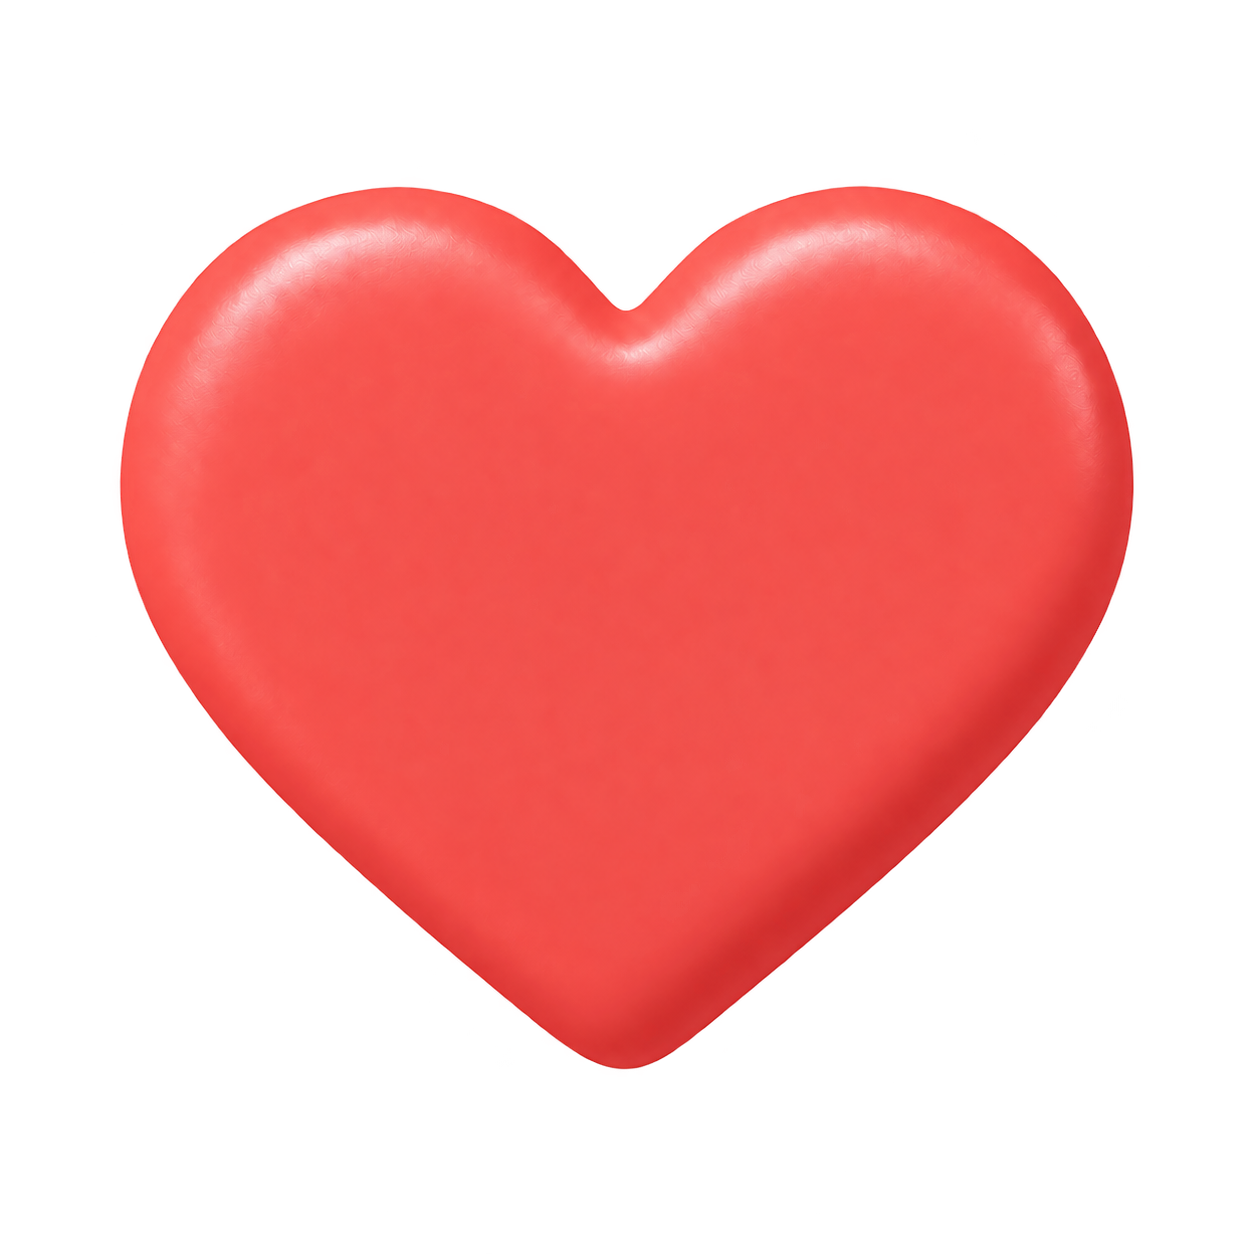
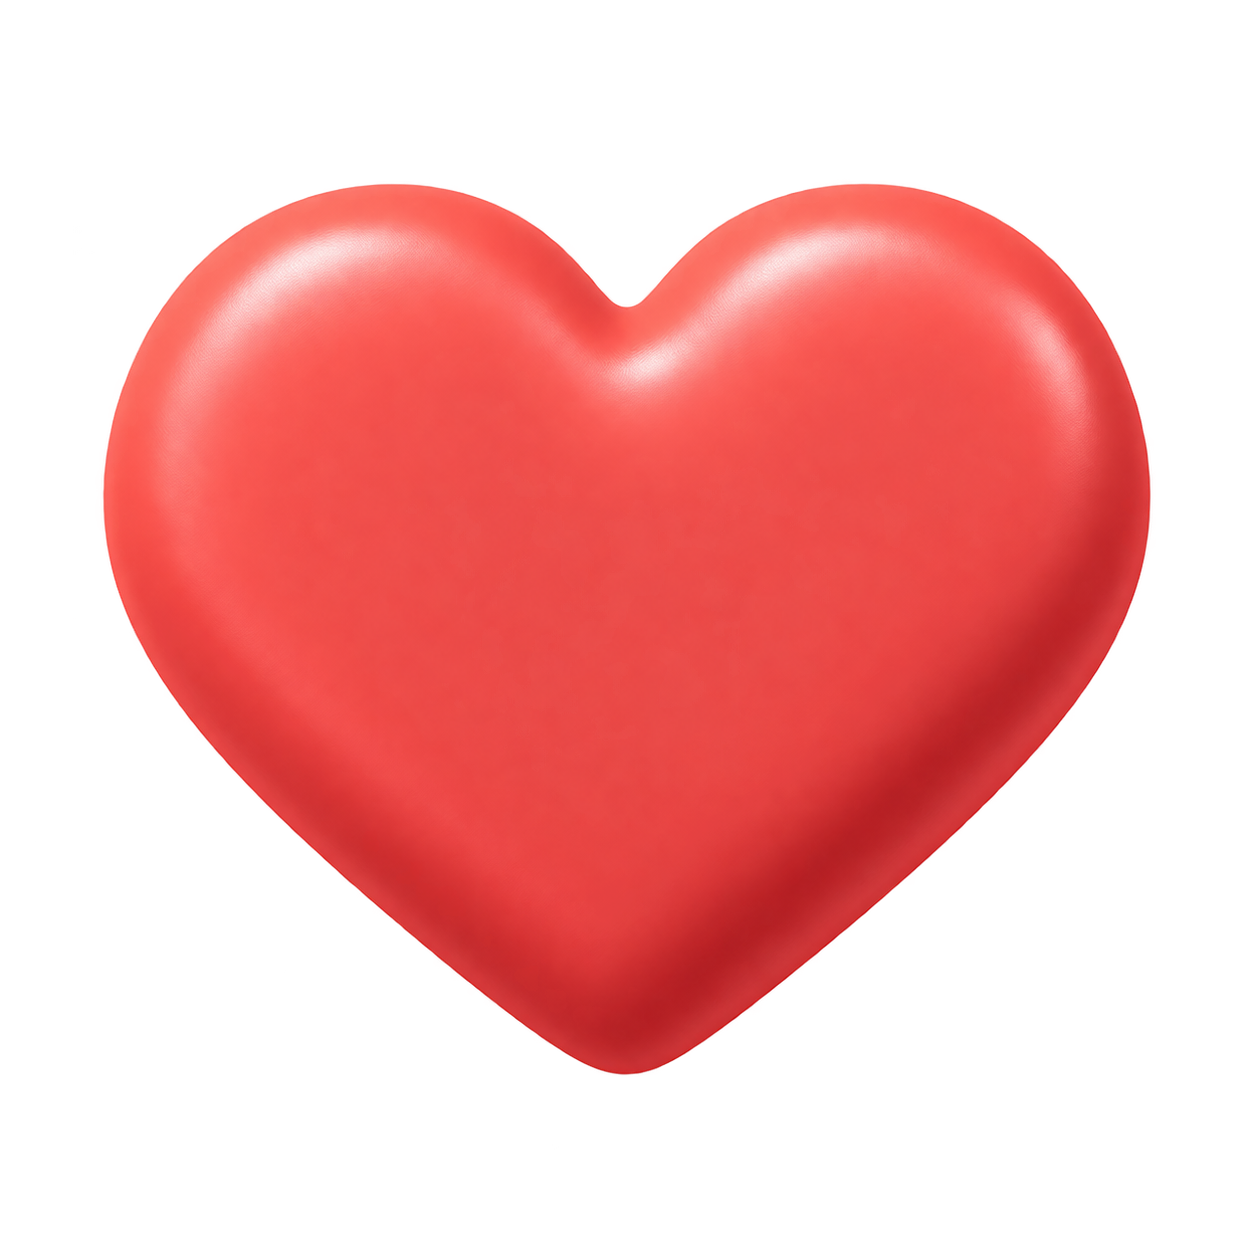
Polish auth pages with centered headings and HeroUI toasts

diff --git a/web/api-key-page.tsx b/web/api-key-page.tsx
@@ -7,6 +7,7 @@ import {
   Label,
   TextArea,
   TextField,
+  toast,
 } from "@heroui/react";
 import { useEffect, useRef, useState, type FormEvent } from "react";
 import { Brand } from "./brand";
@@ -14,7 +15,7 @@ import { Brand } from "./brand";
 type GeneratedKey = { api_key: string; expires_at: string };
 
 function generationError(status: number) {
-  if (status === 401) return "Check your email and password and try again.";
+  if (status === 401) return "Invalid credentials";
   if (status === 429) return "Too many attempts. Wait a minute and try again.";
   if (status === 503)
     return "Key generation is unavailable. Check the root configuration.";
@@ -24,7 +25,6 @@ function generationError(status: number) {
 export function ApiKeyPage() {
   const [email, setEmail] = useState("");
   const [password, setPassword] = useState("");
-  const [error, setError] = useState<string>();
   const [invalidCredentials, setInvalidCredentials] = useState(false);
   const [isSubmitting, setIsSubmitting] = useState(false);
   const [result, setResult] = useState<GeneratedKey>();
@@ -49,15 +49,10 @@ export function ApiKeyPage() {
     return () => window.removeEventListener("pagehide", clearSecrets);
   }, []);
 
-  function clearError() {
-    setError(undefined);
-    setInvalidCredentials(false);
-  }
-
   async function generate(event: FormEvent<HTMLFormElement>) {
     event.preventDefault();
     if (isSubmitting) return;
-    clearError();
+    setInvalidCredentials(false);
     setIsSubmitting(true);
     try {
       const response = await fetch("/auth/api-keys", {
@@ -73,13 +68,13 @@ export function ApiKeyPage() {
       });
       if (!response.ok) {
         setInvalidCredentials(response.status === 401);
-        setError(generationError(response.status));
+        toast.danger(generationError(response.status));
         return;
       }
       const data: GeneratedKey = await response.json();
       setResult({ api_key: data.api_key, expires_at: data.expires_at });
     } catch {
-      setError("Unable to connect. Check your connection and try again.");
+      toast.danger("Unable to connect. Check your connection and try again.");
     } finally {
       setPassword("");
       setIsSubmitting(false);
@@ -109,7 +104,7 @@ export function ApiKeyPage() {
       <div className="key-page-content">
         <Brand />
         <Card className="key-card" aria-label="API key generation">
-          <Card.Header className="gap-2">
+          <Card.Header className="key-card-header gap-2">
             <h1 className="page-title">
               {result ? "Your API key is ready" : "Generate an API key"}
             </h1>
@@ -185,15 +180,11 @@ export function ApiKeyPage() {
                   value={email}
                   onChange={(value) => {
                     setEmail(value);
-                    clearError();
+                    setInvalidCredentials(false);
                   }}
                 >
                   <Label>Root email</Label>
-                  <Input
-                    variant="secondary"
-                    maxLength={254}
-                    aria-describedby={error ? "form-error" : undefined}
-                  />
+                  <Input variant="secondary" maxLength={254} />
                   {!isSubmitting ? <FieldError /> : null}
                 </TextField>
                 <TextField
@@ -206,7 +197,7 @@ export function ApiKeyPage() {
                   value={password}
                   onChange={(value) => {
                     setPassword(value);
-                    clearError();
+                    setInvalidCredentials(false);
                   }}
                 >
                   <Label>Root password</Label>
@@ -214,19 +205,9 @@ export function ApiKeyPage() {
                     ref={passwordInput}
                     variant="secondary"
                     maxLength={256}
-                    aria-describedby={error ? "form-error" : undefined}
                   />
                   {!isSubmitting ? <FieldError /> : null}
                 </TextField>
-                {error ? (
-                  <p
-                    id="form-error"
-                    className="text-sm leading-6 text-danger"
-                    role="alert"
-                  >
-                    Error: {error}
-                  </p>
-                ) : null}
                 <Button type="submit" fullWidth isPending={isSubmitting}>
                   {isSubmitting ? "Generating key…" : "Generate API key"}
                 </Button>

diff --git a/web/oauth-page.tsx b/web/oauth-page.tsx
@@ -6,6 +6,7 @@ import {
   Input,
   Label,
   TextField,
+  toast,
 } from "@heroui/react";
 import { useEffect, useRef, useState, type FormEvent } from "react";
 import { Brand } from "./brand";
@@ -20,7 +21,6 @@ export function OAuthPage() {
   const [connection, setConnection] = useState<ConnectionRequest>();
   const [email, setEmail] = useState("");
   const [password, setPassword] = useState("");
-  const [error, setError] = useState<string>();
   const [invalidCredentials, setInvalidCredentials] = useState(false);
   const [pending, setPending] = useState(false);
   const passwordInput = useRef<HTMLInputElement>(null);
@@ -41,7 +41,10 @@ export function OAuthPage() {
         setConnection(request);
       } catch {
         if (!controller.signal.aborted)
-          setError("This connection request expired. Restart from ChatGPT.");
+          toast.danger("Connection expired", {
+            description: "Restart the connection from ChatGPT.",
+            timeout: 0,
+          });
       }
     }
     void load();
@@ -59,7 +62,6 @@ export function OAuthPage() {
   async function approve(action: "allow" | "deny") {
     if (!connection || pending) return;
     setPending(true);
-    setError(undefined);
     setInvalidCredentials(false);
     try {
       const response = await fetch("/oauth/approve", {
@@ -76,9 +78,9 @@ export function OAuthPage() {
       });
       if (!response.ok) {
         setInvalidCredentials(response.status === 401);
-        setError(
+        toast.danger(
           response.status === 401
-            ? "Check your email and password and try again."
+            ? "Invalid credentials"
             : response.status === 429
               ? "Too many attempts. Wait a minute and try again."
               : response.status === 503
@@ -96,7 +98,7 @@ export function OAuthPage() {
         throw new Error("Invalid callback");
       window.location.assign(redirect.toString());
     } catch {
-      setError("Unable to connect. Check your connection and try again.");
+      toast.danger("Unable to connect. Check your connection and try again.");
     } finally {
       setPassword("");
       setPending(false);
@@ -118,7 +120,7 @@ export function OAuthPage() {
       <div className="key-page-content">
         <Brand />
         <Card className="key-card" aria-label="Connect ChatGPT">
-          <Card.Header className="gap-2">
+          <Card.Header className="key-card-header gap-2">
             <h1 className="page-title">Connect ChatGPT</h1>
             {connection ? (
               <Card.Description className="text-base leading-6">
@@ -138,16 +140,11 @@ export function OAuthPage() {
                 value={email}
                 onChange={(value) => {
                   setEmail(value);
-                  setError(undefined);
                   setInvalidCredentials(false);
                 }}
               >
                 <Label>Root email</Label>
-                <Input
-                  variant="secondary"
-                  maxLength={254}
-                  aria-describedby={error ? "connection-error" : undefined}
-                />
+                <Input variant="secondary" maxLength={254} />
                 <FieldError />
               </TextField>
               <TextField
@@ -160,7 +157,6 @@ export function OAuthPage() {
                 value={password}
                 onChange={(value) => {
                   setPassword(value);
-                  setError(undefined);
                   setInvalidCredentials(false);
                 }}
               >
@@ -169,19 +165,9 @@ export function OAuthPage() {
                   ref={passwordInput}
                   variant="secondary"
                   maxLength={256}
-                  aria-describedby={error ? "connection-error" : undefined}
                 />
                 <FieldError />
               </TextField>
-              {error ? (
-                <p
-                  id="connection-error"
-                  className="text-sm leading-6 text-danger"
-                  role="alert"
-                >
-                  {error}
-                </p>
-              ) : null}
               <div className="key-actions">
                 <Button
                   type="submit"

diff --git a/web/main.tsx b/web/main.tsx
@@ -1,3 +1,4 @@
+import { Toast } from "@heroui/react";
 import { StrictMode } from "react";
 import { createRoot } from "react-dom/client";
 import { ApiKeyPage } from "./api-key-page";
@@ -19,5 +20,6 @@ createRoot(document.getElementById("root")!).render(
     ) : (
       <ApiKeyPage />
     )}
+    <Toast.Provider />
   </StrictMode>,
 );

diff --git a/web/styles.css b/web/styles.css
@@ -49,6 +49,11 @@ body {
   padding: 2rem;
 }
 
+.key-card-header {
+  align-items: center;
+  text-align: center;
+}
+
 .page-title {
   font-size: 1.5rem;
   line-height: 1.3;

diff --git a/docs/branding.md b/docs/branding.md
@@ -1,6 +1,6 @@
 # Vitalog brand
 
-Vitalog's mark is a vivid warm red heart. Its shallow rounded relief follows the shipped Towbar trailer and Mill windmill logos. Keep the heart upright and front-facing, without a tilted camera or visible side extrusion. Place the transparent mark on plain light or dark surfaces. Both auth pages center the logo above the form without a wordmark.
+Vitalog's mark is a vivid warm red heart with full rounded 3D volume. Its soft clay material and studio highlights follow the shipped Towbar trailer and Mill windmill logos. Keep the heart upright and front-facing, with deep curved lobes and a thick rounded body. Place the transparent mark on plain light or dark surfaces. Both auth pages center the logo above the form without a wordmark, and center their titles and descriptions.
 
 The source is [`assets/brand/vitalog-mark-source.png`](../assets/brand/vitalog-mark-source.png), a 1254 × 1254 RGBA PNG edited from the original mark with the built-in image generation tool. The source's alpha is preserved in the 256 px page/plugin mark, 64 px favicon/composer icon and 180 px touch icon. Derivatives were resized with macOS `sips`; no visual edits were made outside the image generation tool. The UI reserves a 64 × 64 px image area to avoid layout shifts. Its alt text is "Vitalog" so the logo-only treatment retains an accessible brand name.
 
@@ -8,4 +8,4 @@ Vite emits the PNGs as same-origin assets. The page's CSP permits same-origin im
 
 ## Edit prompt
 
-Use case: precise-object-edit. Edit the supplied Vitalog logo. Remove the cream plus symbol completely and reconstruct the heart surface beneath it seamlessly in the same vivid warm red satin clay material. Deliver just one upright, front-facing red heart, with the same silhouette, centered composition, strong coral-red color approximately #E84D4D, gently lighter red highlights, very shallow rounded 3D relief and smooth satin surface. Keep the heart exactly as it is in the supplied image apart from removing the plus and its shadow. The center must be continuous red with no mark, indentation, outline, residual plus, discoloration or attached shape. Preserve the transparent background and the square canvas. No text, tilt, rotation, side extrusion, cast shadow, border, new icons or background. A polished transparent PNG of the plain red heart alone.
+Use case: precise-object-edit. Image 1 is the Vitalog red heart logo to edit. Images 2 and 3 are style references only: Towbar's yellow trailer and Mill's windmill, for their rounded dimensional soft clay rendering and polished studio lighting. Edit only the heart in image 1. Give it full three-dimensional, plump sculptural volume rather than shallow embossed relief: deep softly rounded lobes and a thick rounded body with believable curvature, diffuse shading, subtle satin highlights and rich red edges. Preserve its upright front-facing orientation, recognizable symmetrical heart silhouette, centered composition and vivid warm red approximately #E84D4D. Keep the camera straight on and do not tilt or rotate the heart. Match the soft polished clay character of the other two logos without copying any of their objects or colors. Deliver a single standalone solid red heart, with no plus, inset mark, symbol, text, outline, border, pedestal or additional object. Transparent background with clean alpha, square canvas, balanced padding, no detached cast shadow. This is a finished app brand icon that should remain clear at 64 pixels.
